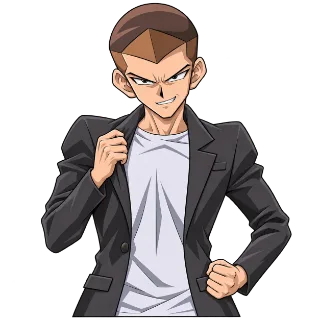
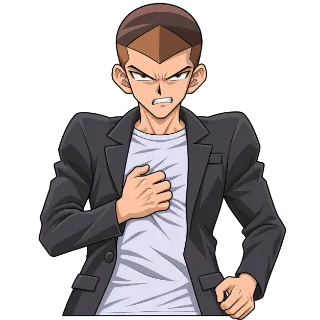
Rende frontale la reazione danno di Tristan
Suite completa non eseguita.

Changed region(s): [[0.125, 0.0, 0.9375, 1.0]]

diff --git a/sw.js b/sw.js
@@ -575,8 +575,8 @@
 // v772: controllori e livello IA espliciti nella sandbox di prova.
 // v773: le Fusioni WebGL di Livello 7+ vengono rivelate nello slot dopo la scena.
 // v794: Tristan posseduto dai Big Five, mazzi a difficoltà, dialoghi e nuove pedine.
-// v798: braccia della posa danno di Tristan più naturali e raccolte.
-const CACHE_NAME = 'ygo-duel-arena-v798';
+// v799: posa danno di Tristan frontale, con reazione chiara al colpo ai Life Point.
+const CACHE_NAME = 'ygo-duel-arena-v799';
 
 // CACHE DEI MEDIA (immagini, e tutto cio' che non e' app shell), SEPARATA e con un nome che NON cambia a ogni rilascio.
 // Prima stavano nella stessa cache dell'app shell, e `activate` butta ogni cache che non sia quella corrente: ad ogni aggiornamento
@@ -585,7 +585,7 @@ const CACHE_NAME = 'ygo-duel-arena-v798';
 // REGOLA NUOVA: un'immagine NUOVA (nome nuovo) non richiede nulla; un'immagine che CAMBIA contenuto tenendo lo STESSO nome si vedrebbe
 // vecchia per sempre (cache-first): in quel caso, e solo in quel caso, si cambia il suffisso qui sotto (-v1 -> -v2), che scarta
 // l'intera cache dei media. Tutti i commenti storici qui sopra che dicono "il bump serve" per un media vanno letti cosi'.
-const MEDIA_CACHE = 'ygo-duel-arena-media-v5';
+const MEDIA_CACHE = 'ygo-duel-arena-media-v6';
 
 // L'intera "app shell": tutte le pagine HTML + tutto il codice JS/CSS che
 // le fa funzionare. Leggero (pochi MB in tutto), quindi si può precaricare

diff --git a/js/version.js b/js/version.js
@@ -874,4 +874,4 @@
  *   torneo paga solo la propria valuta; niente più stiramento elastico
  *   a fine scroll su nessuna pagina.
  */
-window.GAME_VERSION = '1.9.27';
+window.GAME_VERSION = '1.9.28';
